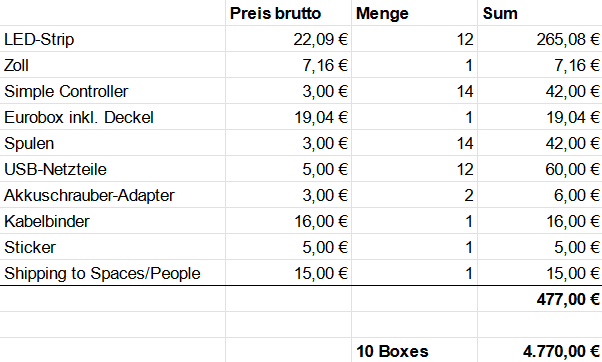
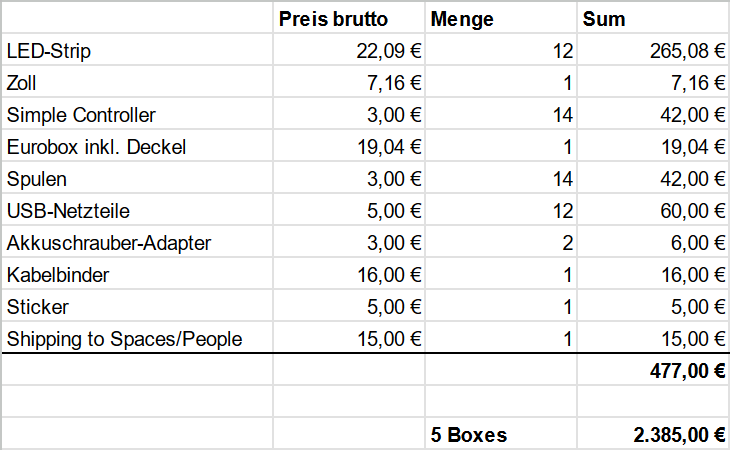
added talk-video

Changed region(s): [[0.0, 0.0, 1.0, 1.0], [0.4784, 0.3039, 0.598, 0.4862]]

diff --git a/Projektantrag.md b/Projektantrag.md
@@ -18,11 +18,11 @@ Die Umsetzung bedeutet eine Menge Arbeit. Das Material muss bestellt, Spulen ged
 
 ### Bestellung
 
-Das Meiste muss bei Aliexpress bestellt werden, ein Teil aus Deutschland. Vorschlag: Der CCC überweist mir einen Vorschuss von z. B. 4000€, ich tätige die Bestellungen. Wahrscheinlich lässt sich bei Aliexpress durch die Nutzung von Gutscheinen und Rabattaktionen einigs sparen. Das bedeutet allerdings, dass nicht alles auf einmal bestellt werden kann. Es wäre also ggf. sinnvoll, die Bestellungen über einige Wochen bis Monate zu strecken. Ggf. lässt sich auch ein Gesamtrabatt mit dem Händler aushandeln.
+Das Meiste muss bei Aliexpress bestellt werden, ein Teil aus Deutschland. Vorschlag: Der CCC überweist mir einen Vorschuss von z. B. 2000€, ich tätige die Bestellungen. Wahrscheinlich lässt sich bei Aliexpress durch die Nutzung von Gutscheinen und Rabattaktionen einigs sparen. Das bedeutet allerdings, dass nicht alles auf einmal bestellt werden kann. Es wäre also ggf. sinnvoll, die Bestellungen über einige Wochen bis Monate zu strecken. Ggf. lässt sich auch ein Gesamtrabatt mit dem Händler aushandeln.
 
 ### Fertigung der Spulen und Akkuschrauber-Adapter
 
-Mit ~300h Druckzeit (für 10 Kisten) bereitet der Druck der Spulen viel Aufwand. Hier hoffe ich auf Hilfe von Hackspaces und die Nutzung zahlreicher Drucker. Das Modell ist recht einfach zu drucken und sollte auf den meisten Druckern gut funktionieren. Mir steht ein Bambulanbs X1 Carbon Drucker zur Verfügung und ich könnte einen Teil der Spulen drucken.
+Mit ~150h Druckzeit (für 5 Kisten) bereitet der Druck der Spulen viel Aufwand. Hier hoffe ich auf Hilfe von Hackspaces und die Nutzung zahlreicher Drucker. Das Modell ist recht einfach zu drucken und sollte auf den meisten Druckern gut funktionieren. Mir steht ein Bambulanbs X1 Carbon Drucker zur Verfügung und ich könnte einen Teil der Spulen drucken.
 
 ### Löten und flashen der Controller
 
@@ -30,6 +30,6 @@ Das wird sich vorraussichtlich an ein paar Abenden mit ein Paar Leuten in der wa
 
 ### Zeitplan
 
-Ich bin dabei mehr und mehr Wesen für das Projekt zu begeistern. Auf dem [Kamphack 2024](https://kamphack.de) wird es einen Vortrag geben, auf der Esterhegg 2024 evtl. einen Lightning Talk.
+Ich bin dabei mehr und mehr Wesen für das Projekt zu begeistern. Auf dem [KampHack 2024](https://kamphack.de) habe ich einen Talk dazu gehalten.
 
-Ich denke, dass 2024 einige Boxen fertig werden könnten. Die Easterhegg-Orga hat großes Interesse angemeldet. Wie schnell sich das Projekt umsetzen lässt, hängt sehr davon ab, wieviel Hilfe ich erhalte.
+Ich denke, dass 2024 einige Boxen fertig werden könnten. Ich werde mittlerweile regelmäßig von Event-Orgas kontaktiert mit der Bitte um Verleih der Tropfenketten. Wie schnell sich das Projekt umsetzen lässt, hängt sehr davon ab, wieviel Hilfe ich erhalte.

diff --git a/Readme.md b/Readme.md
@@ -2,6 +2,14 @@
 
 A project featuring a box filled with 240 meters of ready-to-use LED strips to make events more colorful. These boxes are stored in hackspaces or at the homes of beings. Coordination of which boxes are used at which events is done through a [Matrix group](https://matrix.to/#/#projekt-tropfenkette:matrix.warpzone.ms).
 
+
+<table><tr>
+<td><a href="https://www.youtube.com/watch?v=VafaI8VTRTc" target=new><img src="https://img.youtube.com/vi/VafaI8VTRTc/0.jpg" alt="My talk about this project at KampHack 2024 in warpzone hackerspace in Münster"></a><br>
+    <em>My talk about this project at <a href="https://kamphack.de/" target=new>KampHack 2024</a> in <a href="https://www.warpzone.ms/" target=new>warpzone</a> hackerspace in Münster (in german)</em></td>
+</tr></table>
+
+<br />
+
 <table><tr>
 <td> <a href="images/at_home.jpg"><img src="images/at_home.jpg" style="width: 380px;"/></a> </td>
 <td> <a href="images/37c3.jpg"><img src="images/37c3.jpg" style="width: 380px;"/></a> </td>
@@ -204,7 +212,7 @@ If something is not right, it is now very straightforward to return it on AliExp
 
 ## The funding
 
-The project, consisting of 10 boxes, is hoped to be financed by the CCC. For more details, refer to the [Projektantrag](Projektantrag.md).
+The project, consisting of 5 boxes, is hoped to be financed by the CCC. For more details, refer to the [Projektantrag](Projektantrag.md).
 
 ## Vision
 
@@ -216,7 +224,7 @@ Vision: Custom WLED PCB with ESP32, microphone, and PoE. It can be used standalo
 
 ### Microphone-Box
 
-Vision: A small 3d-printed box with an [ESP32 board and a microphone](https://github.com/NandXor96/USBWLEDC) inside without LEDs. It can be used to control the audioreactive effects oh the Tropfenketten.
+Vision: A small 3d-printed box with an [ESP32 board and a microphone](https://github.com/NandXor96/USBWLEDC) inside without LEDs. It can be used to control the audioreactive effects of the Tropfenketten. The network latency is quite high in WLED 0.15. We should wait for improvements.
 
 ### Other types of LEDs
 
